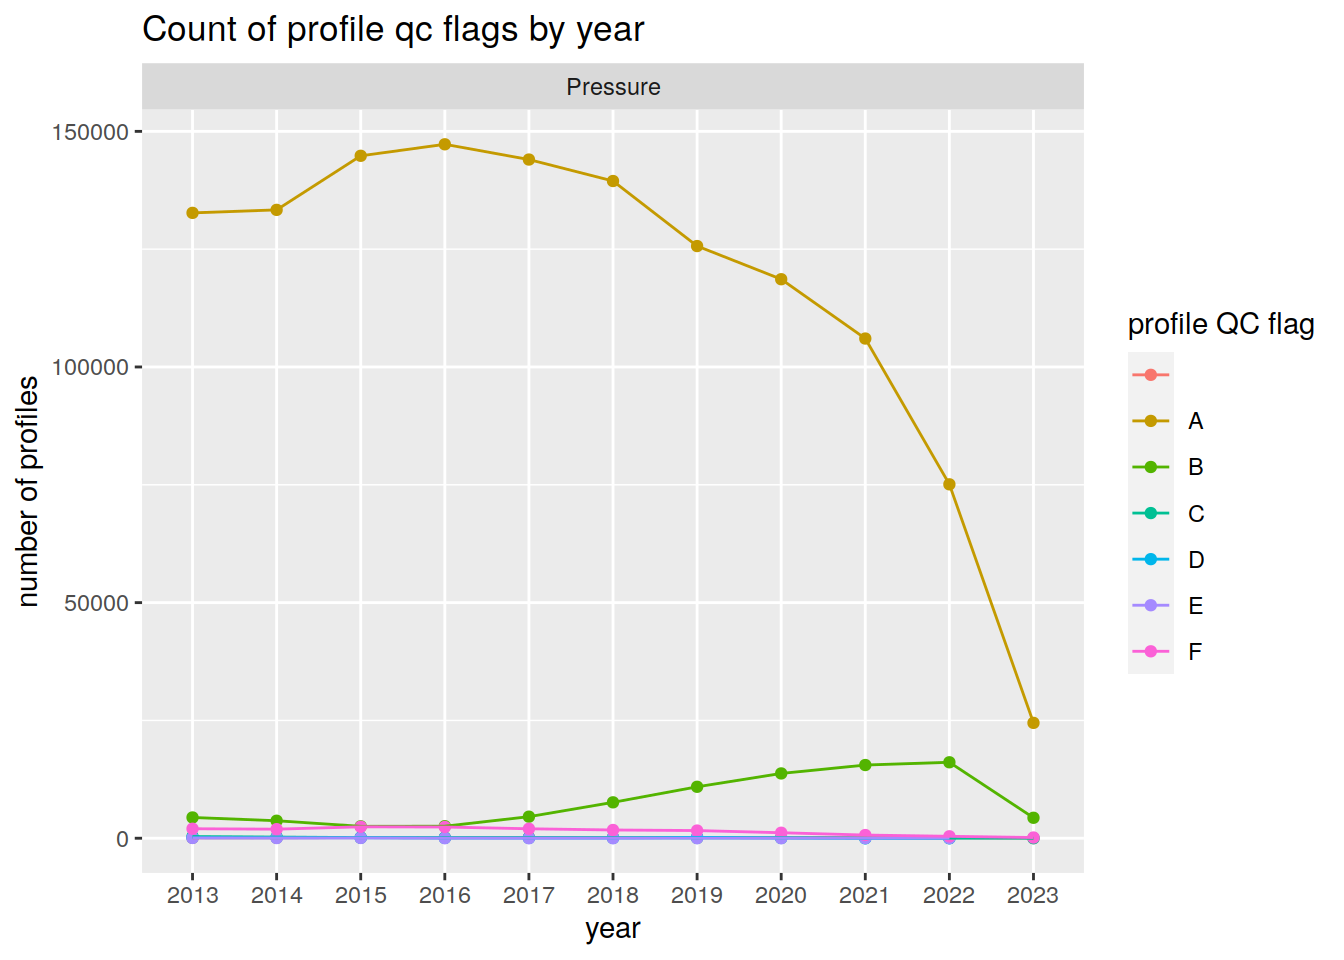
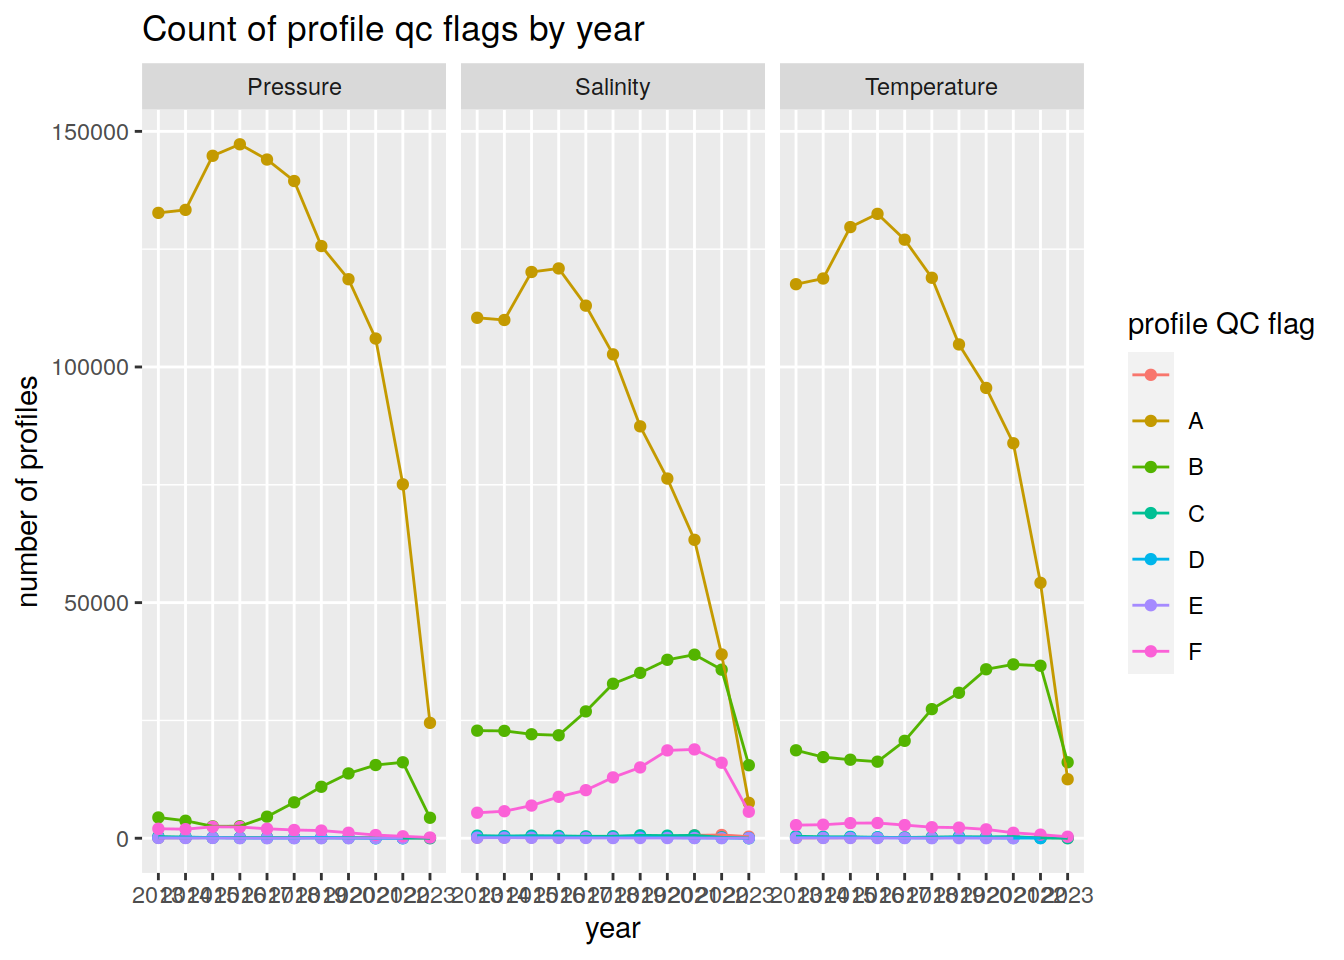
Build site.

diff --git a/docs/load_argo_core.html b/docs/load_argo_core.html
@@ -627,15 +627,15 @@ project makes it easier to run your code on other machines.</p>
 <div class="panel panel-default">
 <div class="panel-heading">
 <p class="panel-title">
-<a data-toggle="collapse" data-parent="#workflowr-checks" href="#strongRepositoryversionstrongahrefhttpsgithubcomjensdanielmuellerbgcargorargodatatree3f8f36ea0b61c4db89192f1e6b494245dc23527ftargetblank3f8f36ea">
+<a data-toggle="collapse" data-parent="#workflowr-checks" href="#strongRepositoryversionstrongahrefhttpsgithubcomjensdanielmuellerbgcargorargodatatree2ca768d713af67f9487a4b027352be65530a17cftargetblank2ca768da">
 <span class="glyphicon glyphicon-ok text-success"
 aria-hidden="true"></span> <strong>Repository version:</strong>
-<a href="https://github.com/jens-daniel-mueller/bgc_argo_r_argodata/tree/3f8f36ea0b61c4db89192f1e6b494245dc23527f" target="_blank">3f8f36e</a>
+<a href="https://github.com/jens-daniel-mueller/bgc_argo_r_argodata/tree/2ca768d713af67f9487a4b027352be65530a17cf" target="_blank">2ca768d</a>
 </a>
 </p>
 </div>
 <div
[2 lines of base64/hex data omitted]
 class="panel-collapse collapse">
 <div class="panel-body">
 <p>
@@ -645,7 +645,7 @@ reproducibility.
 </p>
 <p>
 The results in this page were generated with repository version
-<a href="https://github.com/jens-daniel-mueller/bgc_argo_r_argodata/tree/3f8f36ea0b61c4db89192f1e6b494245dc23527f" target="_blank">3f8f36e</a>.
+<a href="https://github.com/jens-daniel-mueller/bgc_argo_r_argodata/tree/2ca768d713af67f9487a4b027352be65530a17cf" target="_blank">2ca768d</a>.
 See the <em>Past versions</em> tab to see a history of the changes made
 to the R Markdown and HTML files.
 </p>
@@ -713,6 +713,40 @@ Message
 </tr>
 </thead>
 <tbody>
+<tr>
+<td>
+Rmd
+</td>
+<td>
+<a href="https://github.com/jens-daniel-mueller/bgc_argo_r_argodata/blob/2ca768d713af67f9487a4b027352be65530a17cf/analysis/load_argo_core.Rmd" target="_blank">2ca768d</a>
+</td>
+<td>
+ds2n19
+</td>
+<td>
+2023-10-13
+</td>
+<td>
+Added load qc metrics
+</td>
+</tr>
+<tr>
+<td>
+html
+</td>
+<td>
+<a href="https://rawcdn.githack.com/jens-daniel-mueller/bgc_argo_r_argodata/35d09332f11df18e43451a5573bdf4756041ddbf/docs/load_argo_core.html" target="_blank">35d0933</a>
+</td>
+<td>
+ds2n19
+</td>
+<td>
+2023-10-13
+</td>
+<td>
+Build site.
+</td>
+</tr>
 <tr>
 <td>
 Rmd
@@ -1626,52 +1660,114 @@ QC flags (A-F)</p>
                                     ))
   core_profile_summary &lt;- ungroup(core_profile_summary)
 
-
-  # draw separate plots for the separate parameters
+  year_min &lt;- min(core_profile_summary$year)
+  year_max &lt;- max(core_profile_summary$year)
+  
+  # draw plots for the separate parameters
   core_profile_summary %&gt;%
-    group_split(measure_order) %&gt;% 
-    map(~ ggplot((.x), aes(x = year, y = count_profiles, col = profile_qc, group=profile_qc)) +
+    ggplot(aes(x = year, y = count_profiles, col = profile_qc, group=profile_qc)) +
             geom_point() +
             geom_line() +
             facet_grid(. ~ measure) +
             labs(x = &#39;year&#39;, 
                  y = &#39;number of profiles&#39;, 
                  col = &#39;profile QC flag&#39;,
-                 title = &#39;Count of profile qc flags by year&#39;)
-    )</code></pre>
-<pre><code>[[1]]</code></pre>
+                 title = &#39;Count of profile qc flags by year&#39;)</code></pre>
 <p><img src="figure/load_argo_core.Rmd/QC_summary-1.png" width="672" style="display: block; margin: auto;" /></p>
-<pre><code>
-[[2]]</code></pre>
-<p><img src="figure/load_argo_core.Rmd/QC_summary-2.png" width="672" style="display: block; margin: auto;" /></p>
-<pre><code>
-[[3]]</code></pre>
-<p><img src="figure/load_argo_core.Rmd/QC_summary-3.png" width="672" style="display: block; margin: auto;" /></p>
+<p>
+<button type="button" class="btn btn-default btn-xs btn-workflowr btn-workflowr-fig" data-toggle="collapse" data-target="#fig-QC_summary-1">
+Past versions of QC_summary-1.png
+</button>
+</p>
+<div id="fig-QC_summary-1" class="collapse">
+<div class="table-responsive">
+<table class="table table-condensed table-hover">
+<thead>
+<tr>
+<th>
+Version
+</th>
+<th>
+Author
+</th>
+<th>
+Date
+</th>
+</tr>
+</thead>
+<tbody>
+<tr>
+<td>
+<a href="https://github.com/jens-daniel-mueller/bgc_argo_r_argodata/blob/35d09332f11df18e43451a5573bdf4756041ddbf/docs/figure/load_argo_core.Rmd/QC_summary-1.png" target="_blank">35d0933</a>
+</td>
+<td>
+ds2n19
+</td>
+<td>
+2023-10-13
+</td>
+</tr>
+</tbody>
+</table>
+</div>
+</div>
 <pre class="r"><code>  # Read temp and meta_data
   core_measure_summary &lt;-
   read_rds(file = paste0(path_argo_core_preprocessed, &quot;/core_measure_summary.rds&quot;))
   core_measure_summary &lt;- ungroup(core_measure_summary)
 
-  # draw separate plots for the separate parameters
+  year_min &lt;- min(core_measure_summary$year)
+  year_max &lt;- max(core_measure_summary$year)
+  
+  # draw plots for the separate parameters
   core_measure_summary %&gt;%
-    group_split(measure_order) %&gt;% 
-    map(~ ggplot((.x), aes(x = year, y = count_measures, col = measure_qc, group=measure_qc)) +
+    ggplot(aes(x = year, y = count_measures, col = measure_qc, group=measure_qc)) +
             geom_point() +
             geom_line() +
-            facet_grid(. ~ measure) +
+            facet_wrap(~measure) +
+            scale_x_continuous(breaks = seq(year_min, year_max, 1)) +
             labs(x = &#39;year&#39;, 
                  y = &#39;number of measurements&#39;, 
                  col = &#39;measurements QC flag&#39;,
-                 title = &#39;Count of measurement qc flags by year&#39;)
-    )</code></pre>
-<pre><code>[[1]]</code></pre>
-<p><img src="figure/load_argo_core.Rmd/QC_summary-4.png" width="672" style="display: block; margin: auto;" /></p>
-<pre><code>
-[[2]]</code></pre>
-<p><img src="figure/load_argo_core.Rmd/QC_summary-5.png" width="672" style="display: block; margin: auto;" /></p>
-<pre><code>
-[[3]]</code></pre>
-<p><img src="figure/load_argo_core.Rmd/QC_summary-6.png" width="672" style="display: block; margin: auto;" /></p>
+                 title = &#39;Count of measurement qc flags by year&#39;)</code></pre>
+<p><img src="figure/load_argo_core.Rmd/QC_summary-2.png" width="672" style="display: block; margin: auto;" /></p>
+<p>
+<button type="button" class="btn btn-default btn-xs btn-workflowr btn-workflowr-fig" data-toggle="collapse" data-target="#fig-QC_summary-2">
+Past versions of QC_summary-2.png
+</button>
+</p>
+<div id="fig-QC_summary-2" class="collapse">
+<div class="table-responsive">
+<table class="table table-condensed table-hover">
+<thead>
+<tr>
+<th>
+Version
+</th>
+<th>
+Author
+</th>
+<th>
+Date
+</th>
+</tr>
+</thead>
+<tbody>
+<tr>
+<td>
+<a href="https://github.com/jens-daniel-mueller/bgc_argo_r_argodata/blob/35d09332f11df18e43451a5573bdf4756041ddbf/docs/figure/load_argo_core.Rmd/QC_summary-2.png" target="_blank">35d0933</a>
+</td>
+<td>
+ds2n19
+</td>
+<td>
+2023-10-13
+</td>
+</tr>
+</tbody>
+</table>
+</div>
+</div>
 <br>
 <p>
 <button type="button" class="btn btn-default btn-workflowr btn-workflowr-sessioninfo" data-toggle="collapse" data-target="#workflowr-sessioninfo" style="display: block;">
